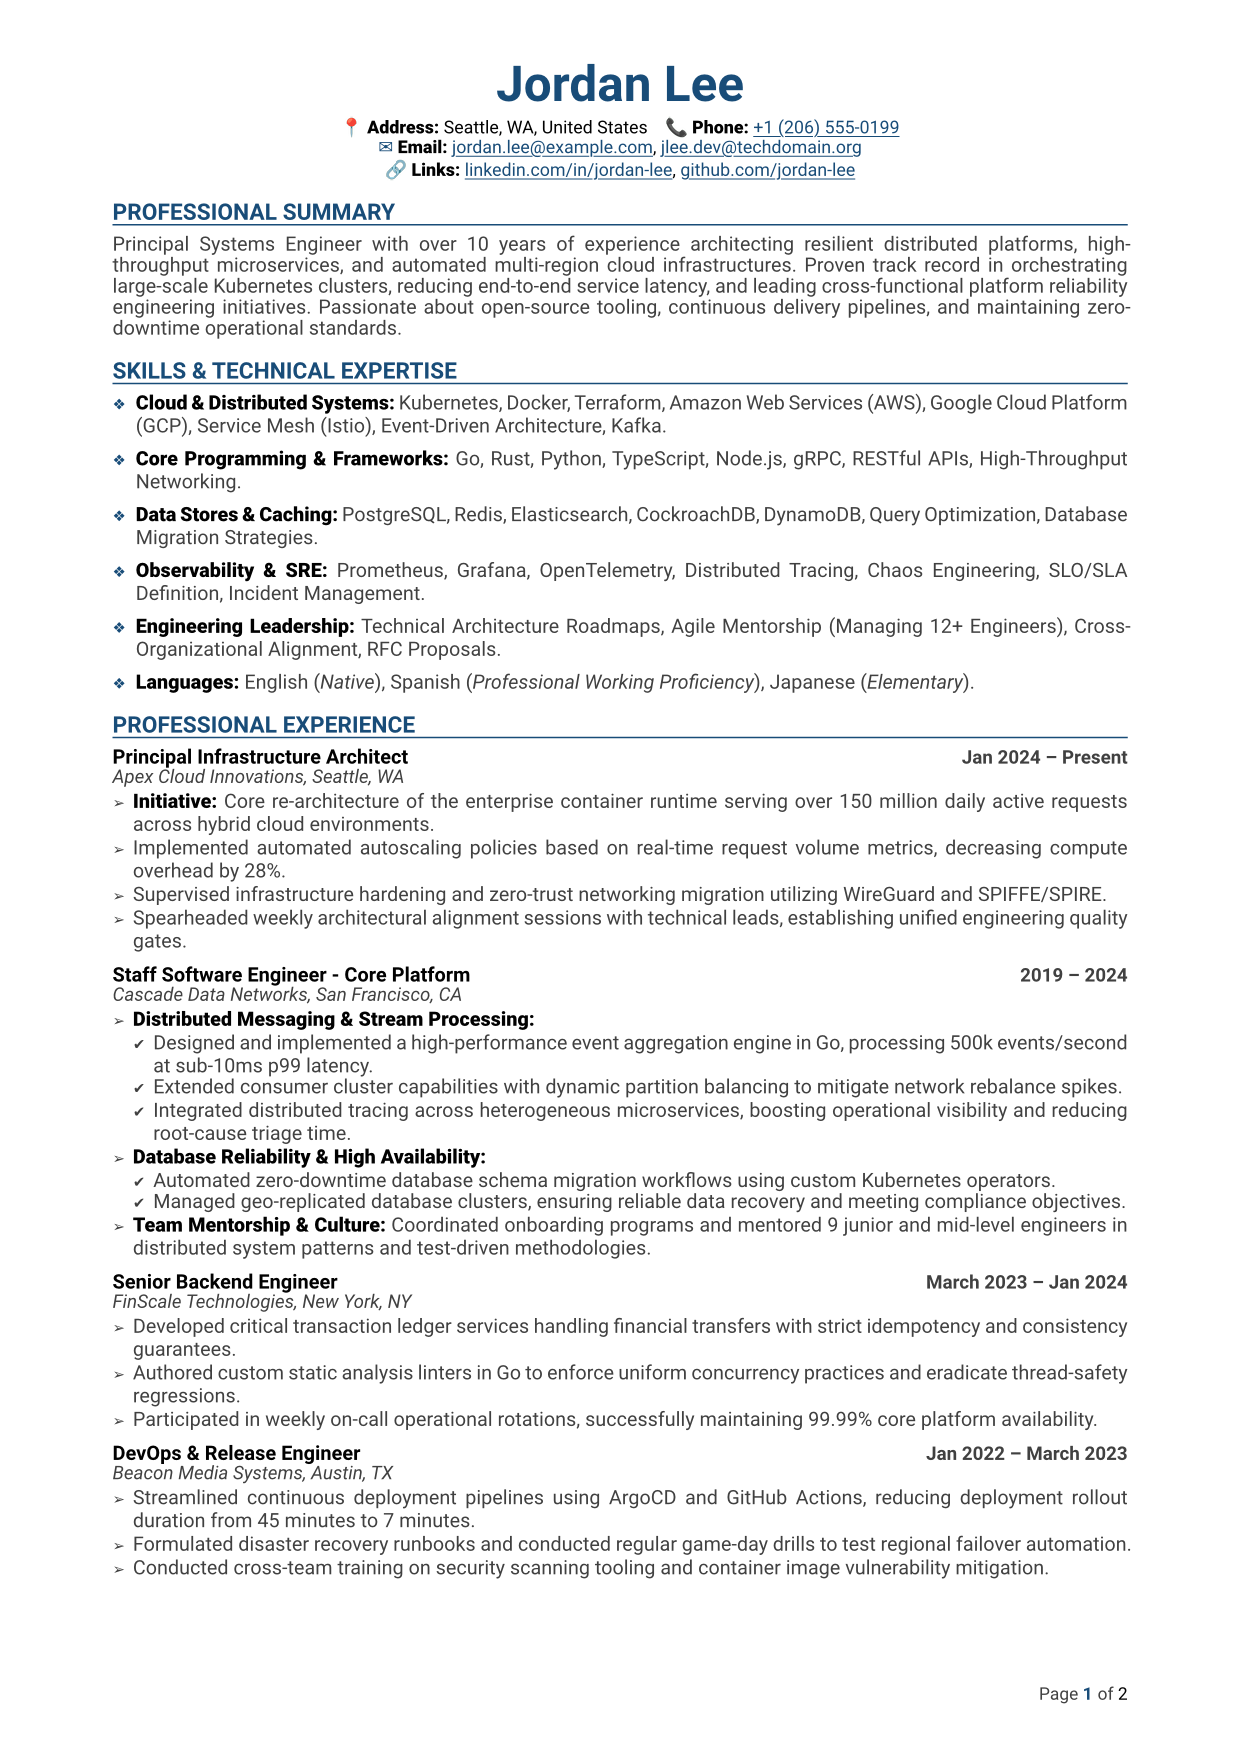
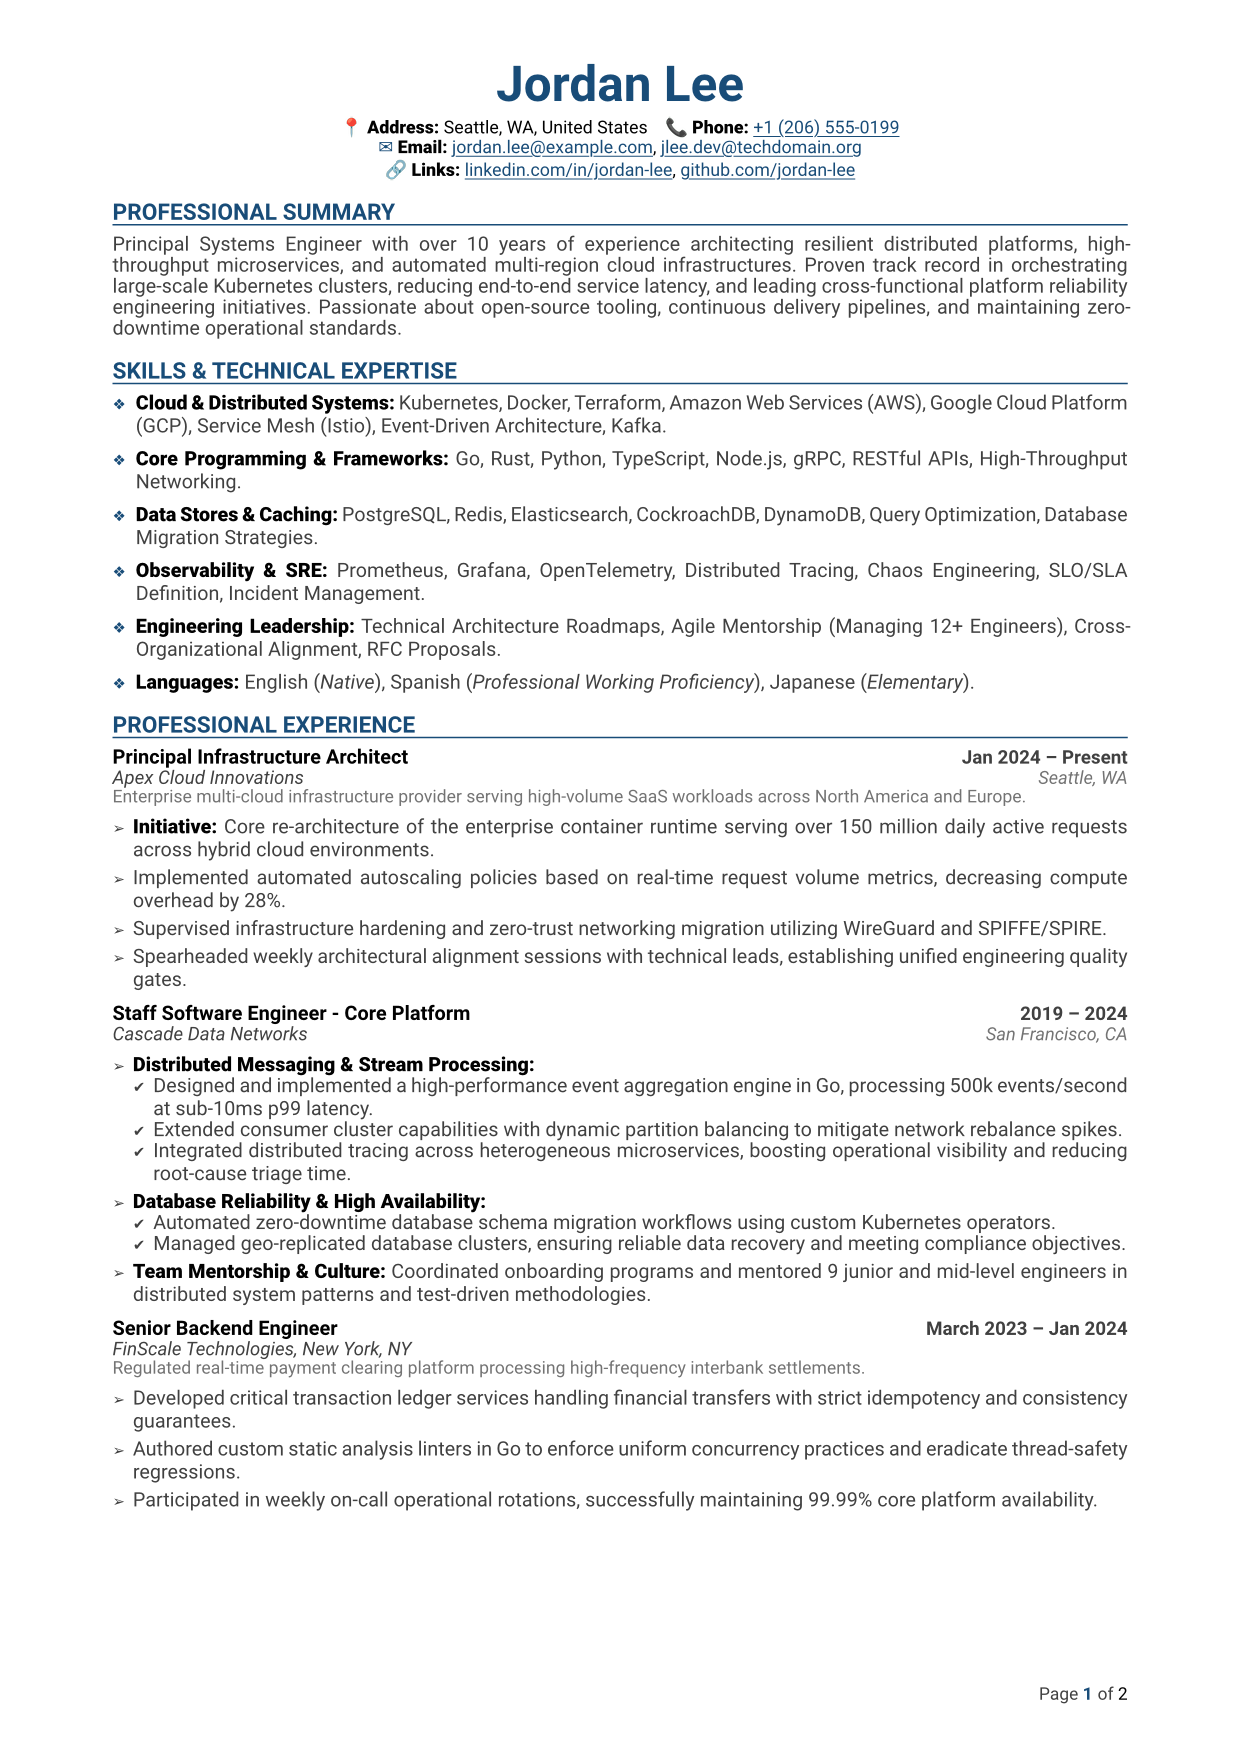
style(layout): refine default entry spacing and regenerate previews

Changed region(s): [[0.0919, 0.431, 0.9194, 0.9236]]

diff --git a/README.md b/README.md
@@ -85,12 +85,12 @@ All layout parameters are strictly optional and merge on top of the built-in def
 | `contact-rows-gap`            | `0.35em`                                   | Header      | Vertical separation between stacked contact lines.                              |
 | `section-title-above`         | `1.4em`                                    | Sections    | Margin before section titles (scales with density).                             |
 | `section-title-below`         | `0.6em`                                    | Sections    | Padding directly beneath section divider line (scales with density).            |
-| `entry-between-entries-gap`   | `0.95em`                                   | Entries     | Vertical gap separating individual CV entries (scales with density).            |
-| `entry-header-to-body-gap`    | `0.65em`                                   | Entries     | Space between entry header rows and the bullet body.                            |
+| `entry-between-entries-gap`   | `1.0em`                                    | Entries     | Vertical gap separating individual CV entries (scales with density).            |
+| `entry-header-to-body-gap`    | `0.85em`                                   | Entries     | Space between entry header rows and the bullet body.                            |
 | `entry-title-to-subtitle-gap` | `0.35em`                                   | Entries     | Row gutter between entry title and organization/role subtitle (or note).        |
 | `entry-subtitle-to-note-gap`  | `0.3em`                                    | Entries     | Row gutter between entry subtitle/location and optional third-row note.         |
 | `entry-note-line-leading`     | `0.3em`                                    | Entries     | Line leading inside multi-line third-row explanatory notes.                     |
-| `entry-list-spacing`          | `0.48em`                                   | Lists       | Spacing between top-level bullet achievements.                                  |
+| `entry-list-spacing`          | `0.7em`                                    | Lists       | Spacing between top-level bullet achievements.                                  |
 | `entry-list-body-indent`      | `0.4em`                                    | Lists       | Indentation for bullet body text.                                               |
 | `entry-sublist-spacing`       | `0.35em`                                   | Sub-lists   | Vertical spacing between nested checklist sub-bullets.                          |
 | `entry-sublist-gap-above`     | `0.25em`                                   | Sub-lists   | Clearance space above nested checklist sub-bullets.                             |
